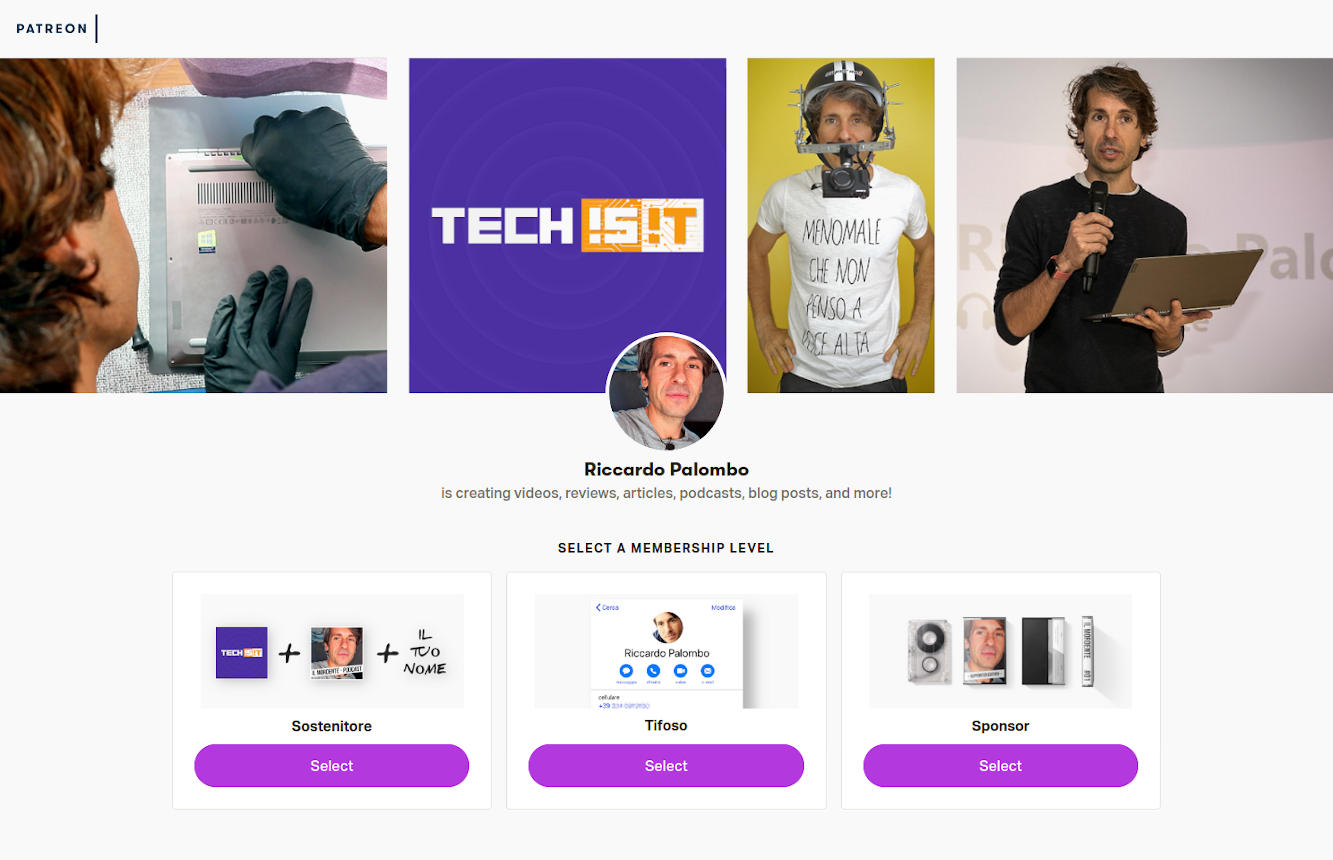
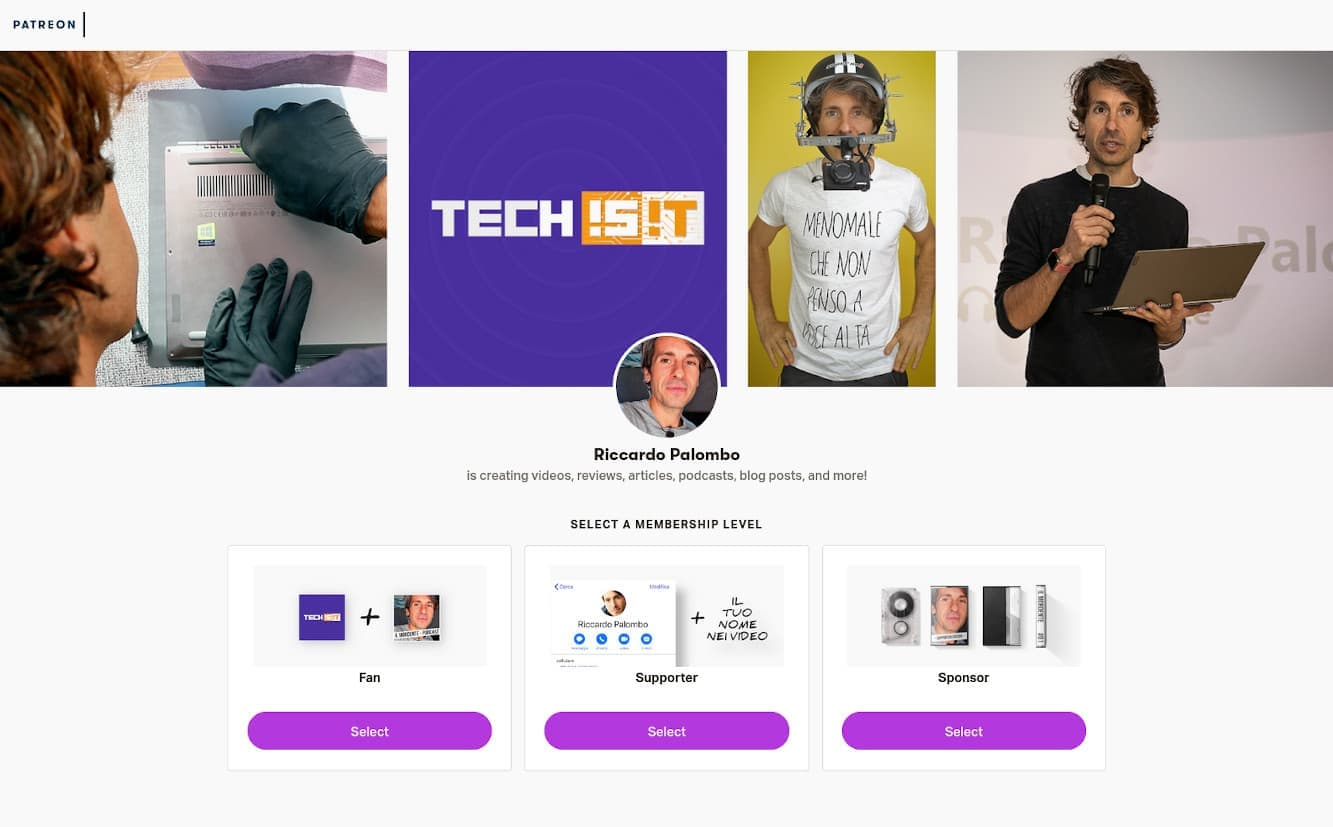
Support draft page

diff --git a/content/supporto.md b/content/supporto.md
@@ -1,7 +1,7 @@
 ---
 title: "Supportami"
-date: 2020-01-03T12:41:00+02:00
-description: "Supportami su Patreon. Come aiutare lo sviluppo e la realizzazione dei progetti di Riccardo Palombo."
+date: 2020-01-07T12:41:00+02:00
+description: "Supportami su Patreon. Come aiutare lo sviluppo e finanziare i progetti di Riccardo Palombo."
 supporto: current-menu-item
 draft: true
 ---
@@ -9,11 +9,11 @@ draft: true
 <div class="main-scroll">
 
 <div class="row ">
-            <div class="col-md-2"></div>
+           <div class="col-md-2"></div>
             <div class="col-md-4 no-padding-left col-sm-6">
                 <div class="promo-box ">
                    <h1>Diventa supporter</h1>
-                    <span class="small-title">Ecco come puoi sostenere me e i miei lavori.</span>
+                    <span class="small-title">Ecco come puoi sostenere i miei lavori.</span>
                 </div>
             </div>
             <div class="col-md-4 no-padding col-sm-6 newsletter">
@@ -26,12 +26,12 @@ draft: true
             </div>
 <div class="row-col-12">
             <div class="col-md-8 col-md-push-2 no-padding-left">
-            <p>Ho appena messo la prima pagina Patreon della mia vita. Ora dovrei inserire una descrizione convincente per invogliarvi a supportare economicamente i miei lavori ma in realtà non c'è un vero motivo. Posso trovare dei pretesti (non c'è pubblicità nel sito, non c'è pubblicità invasiva nei podcast) ma tanto cambia poco.</p>
+            <p><s>&nbsp; &nbsp; &nbsp; &nbsp; &nbsp;</s> Ho appena messo online la prima pagina Patreon della mia vita. Ora dovrei inserire una descrizione convincente per invogliarvi a supportare economicamente i miei lavori ma in realtà non c'è un vero motivo. Posso trovare dei pretesti (non c'è pubblicità nel sito, non c'è pubblicità invasiva nei podcast) ma tanto cambia poco.</p>
 </div>
         </div>
 <figure>
                     <a
-                        href="#"
+                        href="https://www.patreon.com/preview/929833a7c007488f85e261c467c535ca"
                         target="_blank" rel="nofollow noopener" title="Vai alla pagina Patreon di Riccardo Palombo">
                         <img
                             src="/img/articoli/patreon-riccardo-palombo.jpg" alt="Sostieni Riccardo su Patreon" class="lazyload">
@@ -40,9 +40,26 @@ draft: true
 <div class="row-col-12">
             <div class="col-md-8 col-md-push-2 no-padding-left">
             <p>Se vi sto sulle scatole, cambia poco. Se vi piace quello che faccio, cambia poco. Quindi decidete pure in piena spensieratezza. Ci sono diverse opzioni. Preparate un tè caldo e pensateci su*.</p>
-           <p>*: in realtà la nuova serie di video Scuola di recensioni richiede delle spese crude che vanno al di là del mio compenso. I viaggi in treno, gli hotel, le ore che devo pagare all'operatore e quel minimo di rimborso spese che gli devo garantire.</p>
- 
+ </div>
+          <div class="col-md-8 col-md-push-2 no-padding-left">
+            <h3>I tre livelli</h3>
+        <p><s>&nbsp; &nbsp; &nbsp; &nbsp; &nbsp;</s> Potete aiutarmi a concretizzare i miei lavori scegliendo uno dei tre livelli. A chi sceglie di aderire al piano che con in uno slancio di genio ho chiamato <strong>Fan</strong>, garantisco l'accesso anticipato alle puntate dei podcast. Il più delle volte sono pronte la sera prima quindi perché lasciarle lì? Con il secondo livello diventate <strong>Supporter</strong>, ed aggiungete all'accesso podcast un numero di telefono dedicato ai Patreon per comunicare con me via Whatsapp o Telegram; è il numero diverso dal solito che usiamo su Il Mordente, una cosa riservata che avrà priorità più alta. Inoltre, al momento della chiusura di una puntata Scuola di recensioni, inserirò il nome dei Supporter nei titoli di coda del video.     
+        <br><br></p>
+ </div>
+        <figure><img src="/img/articoli/audiocassetta-mordente.jpg" alt="Audiocassetta Il Mordente su Patreon" class="lazyload"></figure>
+
+<div class="col-md-8 col-md-push-2 no-padding-left">
+        <p>È poi c'è il terzo livello: <strong>Sponsor</strong>. Qui vi garantite una rarissima audiocassetta con gli episodi preferiti de Il Mordente o di Tech.is.it, firmata e assemblata dal sottoscritto, più gli adesivi dei due podcast. Il problema, magari, sarà trovare un vecchio stereo o uno walkman per ascoltarla! Le audiocassette non saranno disponibili per molto tempo perché ho intenzione di cambiare il gadget incluso nel piano Sponsor più volte durante l'anno. Quindi arriveranno altri oggetti e ci saranno altre idee.    
+        </p>
+        <p>*: in realtà la nuova serie di video <a
+                        href="https://www.youtube.com/playlist?list=PLa8TIOOoI_my47Hlehyeb3mZpMQKhhNwK" rel="nofollow noopener" target="_blank" title="Scuola di recensioni su YouTube">Scuola di recensioni</a> richiede delle spese crude che vanno al di là del mio compenso. I viaggi in treno, gli hotel, le ore che devo pagare all'operatore e quel minimo di rimborso spese che gli devo garantire.</p>
+<br><br>
+<a
+                        href="https://www.patreon.com/preview/929833a7c007488f85e261c467c535ca"
+                        target="_blank" rel="nofollow noopener" title="Vai alla pagina Patreon di Riccardo Palombo"><img
+                            src="/img/patreon-riccardopalombo.png" alt="Become a Patreon" class="lazyload"></a>  
 </div>
+
 </div>
       
 </div> <!-- main-scroll -->
